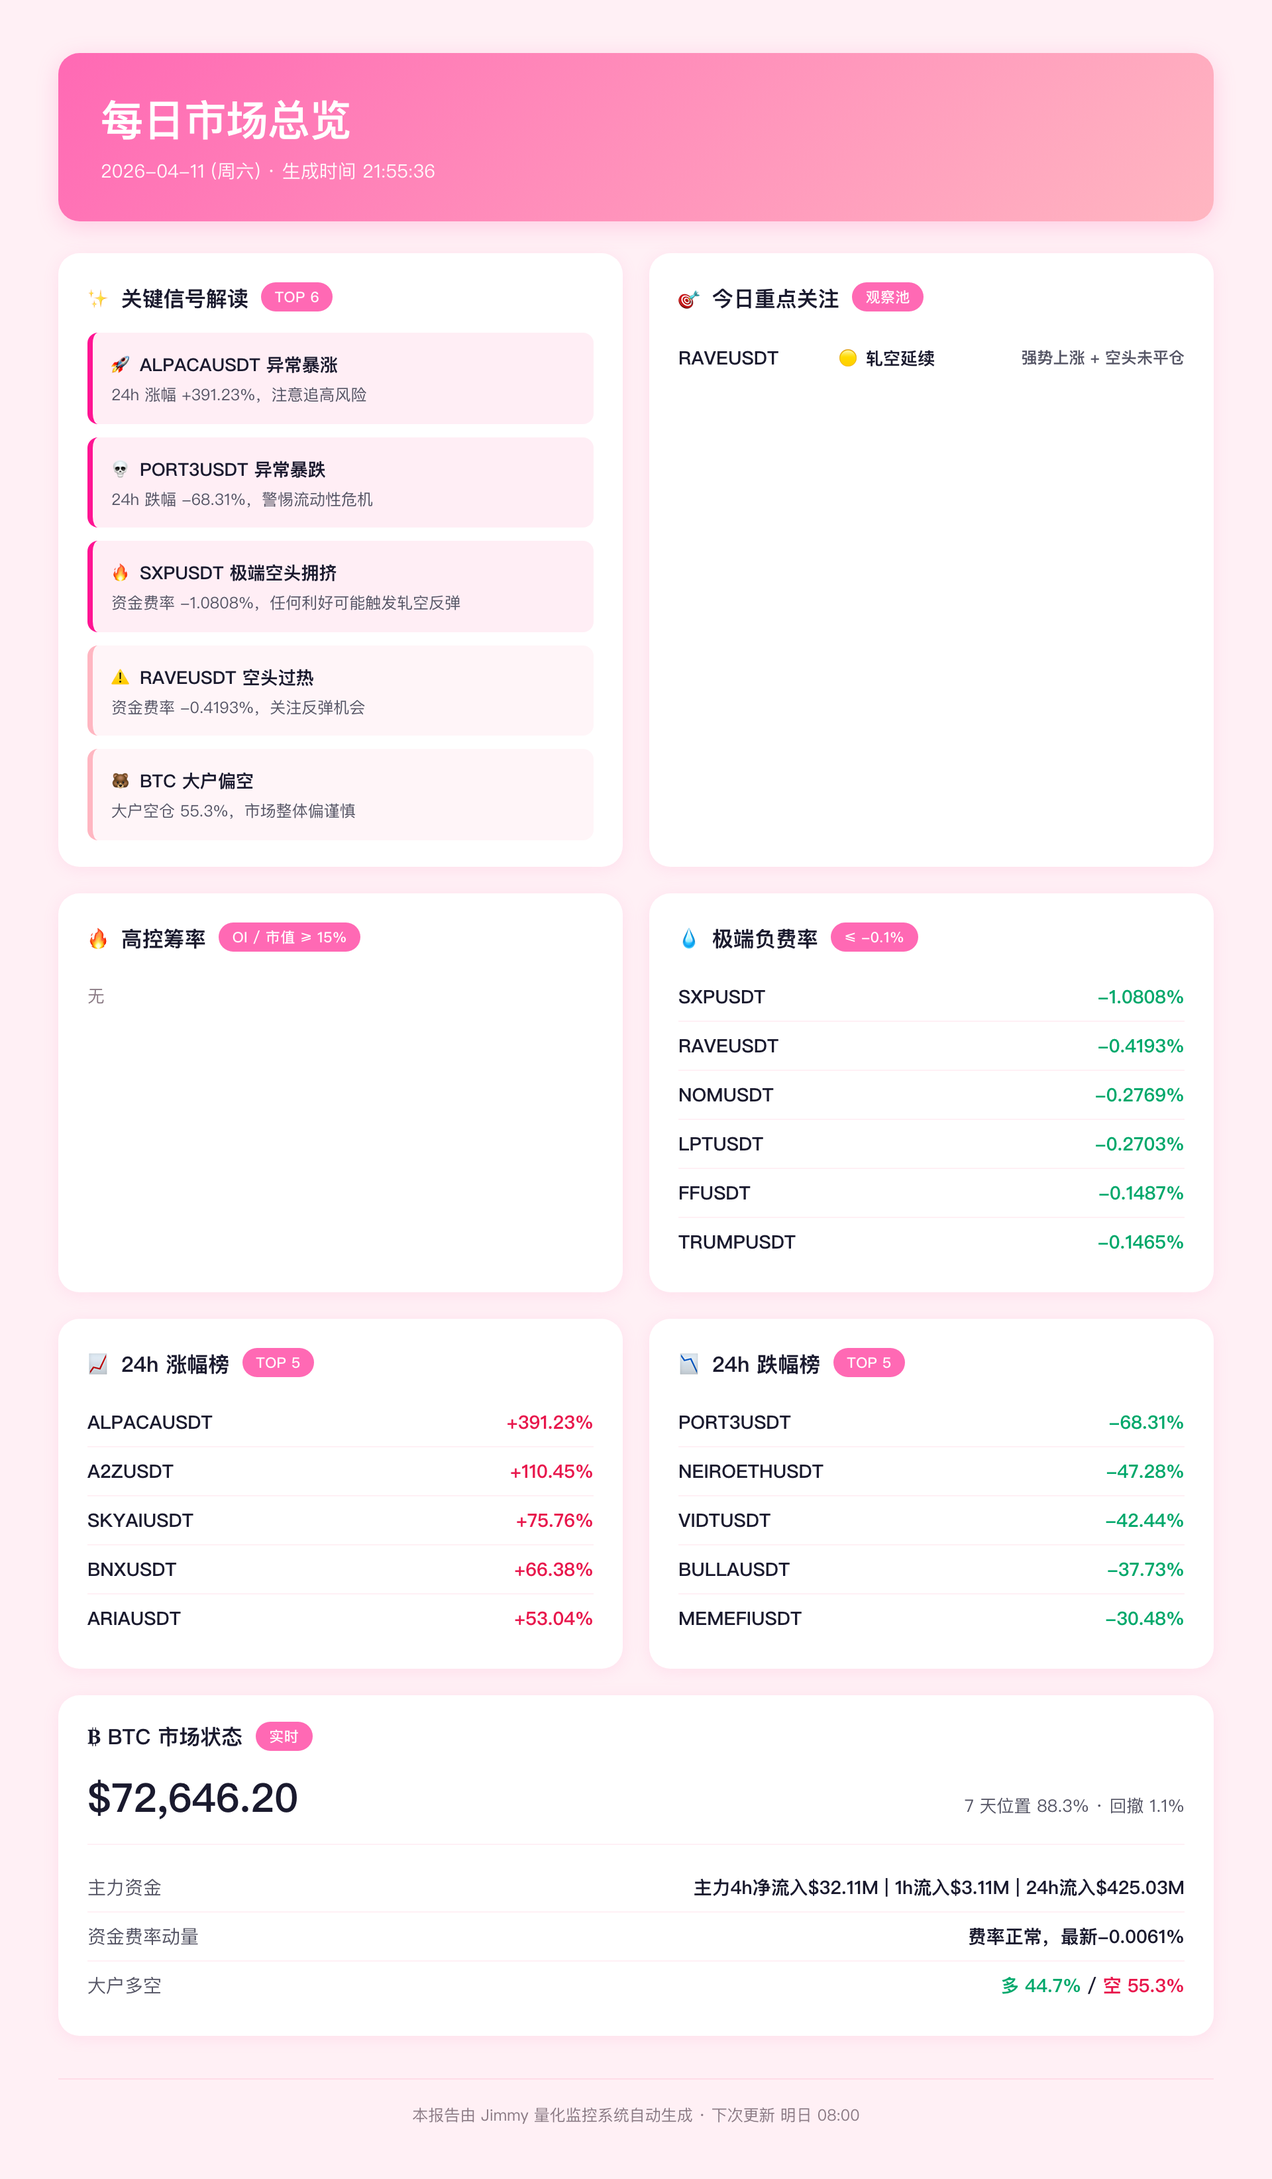
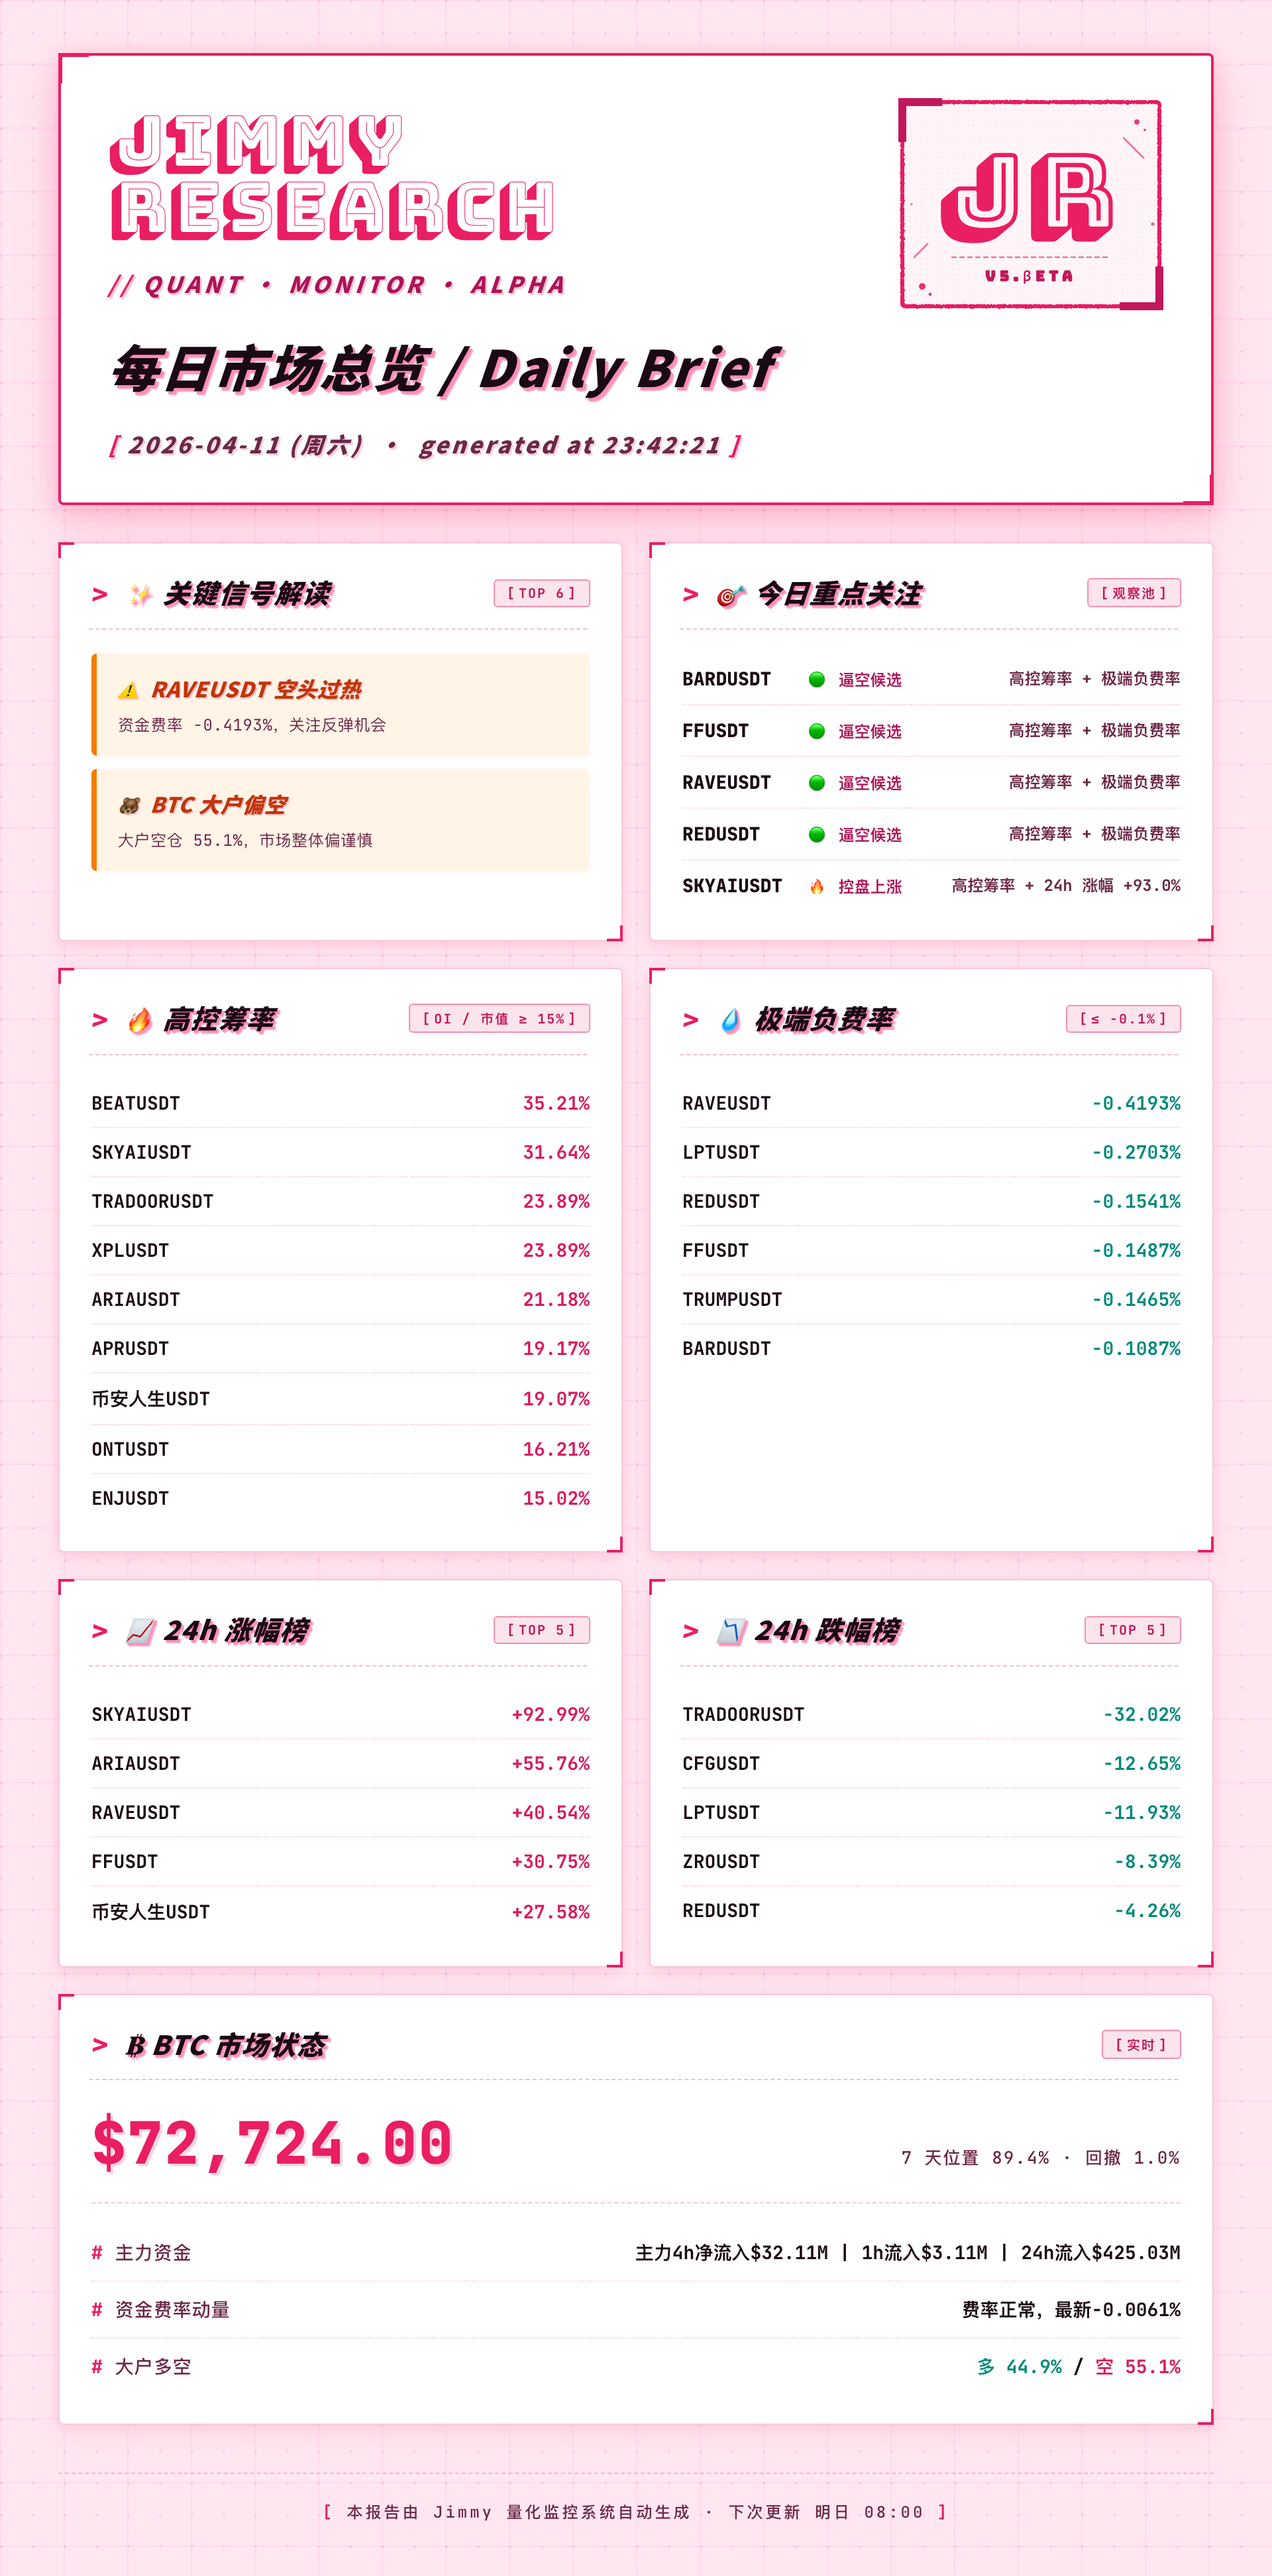
自动同步: 每日总览 2026-04-11 + 2026-04-12

diff --git a/每日总览_2026-04-11.md b/每日总览_2026-04-11.md
@@ -1,0 +1,58 @@
+# 每日市场总览 2026-04-11
+生成时间：23:42
+
+## 市场扫描
+
+### 高控筹率（OI/MC ≥ 15%）
+- BEATUSDT: 35.2%
+- SKYAIUSDT: 31.6%
+- TRADOORUSDT: 23.9%
+- XPLUSDT: 23.9%
+- ARIAUSDT: 21.2%
+- APRUSDT: 19.2%
+- 币安人生USDT: 19.1%
+- ONTUSDT: 16.2%
+- ENJUSDT: 15.0%
+
+### 极端负费率（≤ -0.1%）
+- RAVEUSDT: -0.4193%
+- LPTUSDT: -0.2703%
+- REDUSDT: -0.1541%
+- FFUSDT: -0.1487%
+- TRUMPUSDT: -0.1465%
+- BARDUSDT: -0.1087%
+
+### 24h 涨幅榜 TOP 5
+- SKYAIUSDT: +92.99%
+- ARIAUSDT: +55.76%
+- RAVEUSDT: +40.54%
+- FFUSDT: +30.75%
+- 币安人生USDT: +27.58%
+
+### 24h 跌幅榜 TOP 5
+- TRADOORUSDT: -32.02%
+- CFGUSDT: -12.65%
+- LPTUSDT: -11.93%
+- ZROUSDT: -8.39%
+- REDUSDT: -4.26%
+
+## 关键信号解读
+- ⚠ **RAVEUSDT 空头过热**: 资金费率 -0.4193%，关注反弹机会
+- 🐻 **BTC 大户偏空**: 大户空仓 55.1%，市场整体偏谨慎
+
+## 今日重点关注
+- BARDUSDT | 🟢 逼空候选 | 高控筹率 + 极端负费率
+- FFUSDT | 🟢 逼空候选 | 高控筹率 + 极端负费率
+- RAVEUSDT | 🟢 逼空候选 | 高控筹率 + 极端负费率
+- REDUSDT | 🟢 逼空候选 | 高控筹率 + 极端负费率
+- SKYAIUSDT | 🔥 控盘上涨 | 高控筹率 + 24h 涨幅 +93.0%
+
+## BTC 市场状态
+- 当前价: $72,724.00 | 7 天位置: 89.4% | 回撤: 1.0%
+- 主力资金: 主力4h净流入$32.11M | 1h流入$3.11M | 24h流入$425.03M
+- 资金费率动量: 费率正常，最新-0.0061%
+- 大户多空: 多 44.9% / 空 55.1%
+
+## 备注
+- 本报告由系统自动生成
+- 下次更新：明日 08:00

diff --git a/每日总览_2026-04-12.md b/每日总览_2026-04-12.md
@@ -1,0 +1,56 @@
+# 每日市场总览 2026-04-12
+生成时间：18:28
+
+## 市场扫描
+
+### 高控筹率（OI/MC ≥ 15%）
+- BEATUSDT: 35.0%
+- SKYAIUSDT: 29.7%
+- TRADOORUSDT: 26.4%
+- XPLUSDT: 23.1%
+- ARIAUSDT: 19.7%
+- APRUSDT: 19.2%
+- 币安人生USDT: 18.4%
+- ENJUSDT: 17.2%
+- ONTUSDT: 15.0%
+
+### 极端负费率（≤ -0.1%）
+- RAVEUSDT: -0.8134%
+- TRUMPUSDT: -0.1922%
+- REDUSDT: -0.1368%
+- LPTUSDT: -0.1169%
+- FETUSDT: -0.1044%
+
+### 24h 涨幅榜 TOP 5
+- ARIAUSDT: +67.34%
+- TRADOORUSDT: +54.44%
+- SKYAIUSDT: +41.89%
+- APRUSDT: +26.88%
+- ENJUSDT: +23.67%
+
+### 24h 跌幅榜 TOP 5
+- FFUSDT: -13.21%
+- CFGUSDT: -12.65%
+- SIRENUSDT: -10.30%
+- MONUSDT: -9.40%
+- ZROUSDT: -8.39%
+
+## 关键信号解读
+- 🔥 **RAVEUSDT 极端空头拥挤**: 资金费率 -0.8134%，任何利好可能触发轧空反弹
+- ⚠ **TRUMPUSDT 空头过热**: 资金费率 -0.1922%，关注反弹机会
+
+## 今日重点关注
+- REDUSDT | 🟢 逼空候选 | 高控筹率 + 极端负费率
+- ARIAUSDT | 🔥 控盘上涨 | 高控筹率 + 24h 涨幅 +67.3%
+- TRADOORUSDT | 🔥 控盘上涨 | 高控筹率 + 24h 涨幅 +54.4%
+- SKYAIUSDT | 🔥 控盘上涨 | 高控筹率 + 24h 涨幅 +41.9%
+
+## BTC 市场状态
+- 当前价: $71,591.20 | 7 天位置: 69.4% | 回撤: 3.0%
+- 主力资金: 主力4h净流出$10.97M | 1h流入$2.34M | 24h流入$79.59M
+- 资金费率动量: 费率正常，最新-0.0037%
+- 大户多空: 多 50.0% / 空 50.0%
+
+## 备注
+- 本报告由系统自动生成
+- 下次更新：明日 08:00
